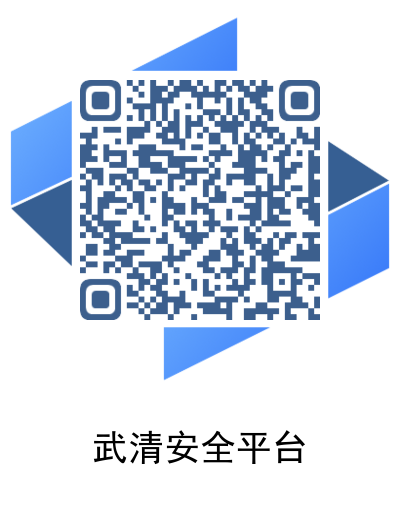
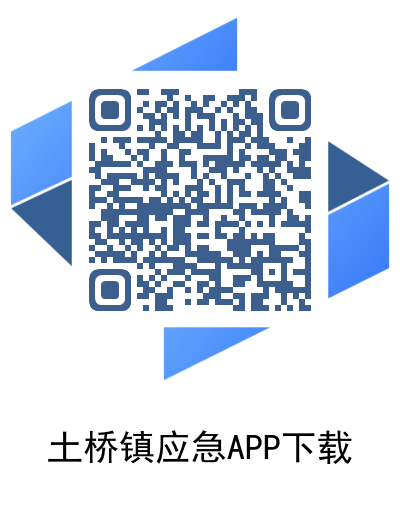
feat(*) 修改配置,图标

Changed region(s): [[0.18, 0.1538, 0.81, 0.6154], [0.12, 0.8308, 0.9, 0.8923]]

diff --git a/index.html b/index.html
@@ -43,7 +43,9 @@
             <div class="description">点击右上角，<br />选择“在浏览器中打开”</div>
         </div>
         <div class="download-btn" @click="download()">点击下载</div>
-        <div style="font-size: 14px;text-align: center;position: fixed;bottom: 20%;">技术支持：天津世纪广源提供技术支持</div>
+        <div style="font-size: 14px;text-align: center;position: fixed;bottom: 20%;">
+            技术支持：长沙与方信息科技有限公司
+        </div>
     </div>
 </body>
 <script>
@@ -72,7 +74,7 @@
                     if (this.dtype === 0) {
                         var a = document.createElement("a");
                         a.download = "土桥镇应急.apk";
-                        a.href = "https://qiniu.csyfxx.com/wuqing_app_android.apk";
+                        a.href = "https://qiniu.csyfxx.com/rucheng_tuqiao_app.apk";
                         $("body").append(a); // 修复firefox中无法触发click
                         a.click();
                         $(a).remove()
